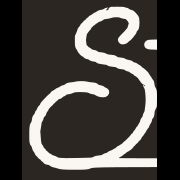
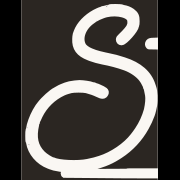
feat(brand): retrace the wordmark from a clean high-resolution source
Nääs Fabriker publishes the logo at 1524x353 with clean edges and the complete
composition, including the rule under "Taube" that the social-media
screenshots crop off. It is a raster PNG, not a webfont.

Retracing from it halves the file (28 kB to 14.5 kB), removes the stroke wobble
the JPEG source produced, and corrects the proportions. Trace settings were
chosen by comparing renders: 2x upscale with optTolerance 0.4 matched higher
upscales visually at a third of the path data.

Favicon and touch icon are regenerated from the same path.

diff --git a/docs/DESIGN.md b/docs/DESIGN.md
@@ -133,13 +133,20 @@ Constraints:
 
 ## 6. Logo
 
-Source screenshots live in `brand/source/`. The dark-background version has the
-highest contrast and is the best tracing source.
+`brand/source/logo-wordmark-hires.png` (1524×353) is the tracing source. It was
+published by Nääs Fabriker and is far better than the social-media screenshots
+alongside it: clean edges, no JPEG artefacts, and — critically — the complete
+composition, including the rule under "Taube" that the screenshots crop off.
 
-Plan: trace with potrace, hand-clean the paths, and ship a single SVG using
-`currentColor` so one file serves both light and dark contexts. Provide an
-accessible name (`Studio Taube — Skönhet & Hälsa`), not an empty `alt`.
+The wordmark is traced with potrace at 2× with `optTolerance: 0.4`, then
+optimised with SVGO. That combination was chosen by comparing renders: higher
+upscales added path nodes without visible benefit. The result is 14.5 kB and
+uses `currentColor`, so one file serves light and dark contexts. It carries an
+accessible name (`Studio Taube — Skönhet & Hälsa`), never an empty `alt`.
 
-**Caveat to raise with Linda:** a trace of a screenshot gets very close but is
-not identical to the original vector. If she can obtain the designer's source
-file, that beats any trace and should replace it.
+The script is illegible at favicon sizes, so `public/favicon.svg` crops to the
+initial S and strokes it to survive 32 px, light on ink for contrast in a
+browser tab.
+
+**Still worth asking Linda:** even a clean trace is not the original vector. If
+the designer's source file exists, it beats this and should replace it.
